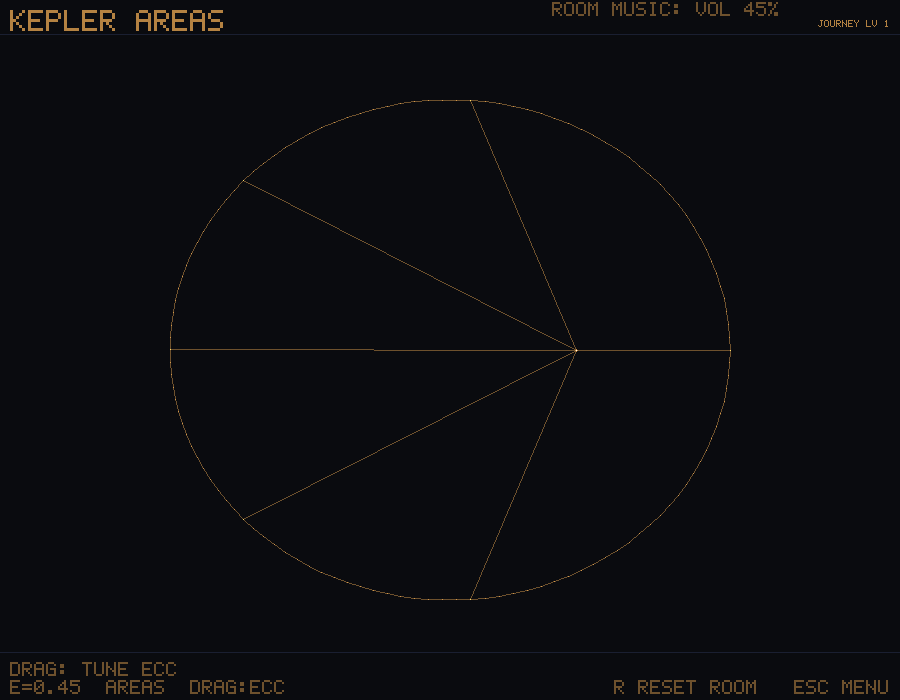
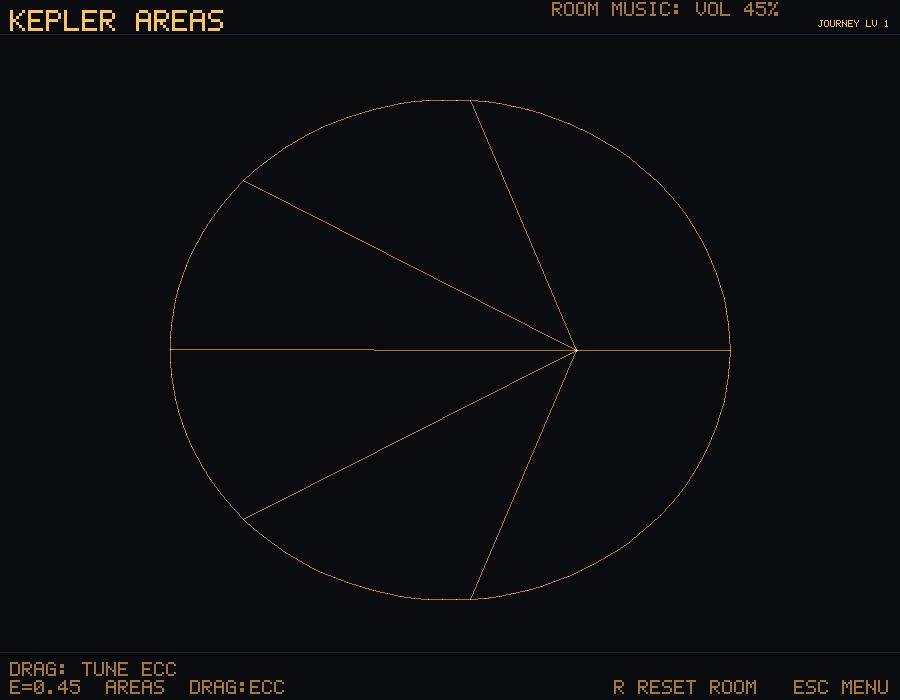
Refine the identity mark and refresh the App plates
Derive native icons from one simple cyan vector and document reproducible
rendering. Put the Cabinet first and give Studio a complete view.

Brighten Kepler's ordinary text to meet the measured stage contrast target
and update its catalog fingerprint and color-independence evidence.

diff --git a/crates/core/src/rooms/catalog.rs b/crates/core/src/rooms/catalog.rs
@@ -3665,7 +3665,7 @@ macro_rules! catalog_rooms {
                 title: "Kepler Areas",
                 wing: "Motion & Dynamics",
                 blurb: "Equal areas in equal times on an ellipse.",
-                accent: [100, 70, 30],
+                accent: [155, 108, 47],
             }
         ),
         (
@@ -4228,10 +4228,10 @@ pub(crate) fn construct_hidden_by_id(id: &str) -> Option<Box<dyn Room>> {
 mod tests {
     use super::*;
 
-    // Alpha 18 corrects the Gray-Scott, Van der Pol, Duffing and Henon-Heiles
-    // blurbs. Only those four fields change from alpha 17; order, ids, titles,
-    // wings and accents stay fixed across all 355 entries.
-    const REVIEWED_ORDERED_METADATA_CHECKSUM: u64 = 0x4875_b8f0_6f48_a89f;
+    // The alpha 18 catalog with Kepler's amber raised for small interface text.
+    // Only that accent changes from alpha 18; order, ids, titles, wings and
+    // blurbs stay fixed across all 355 entries.
+    const REVIEWED_ORDERED_METADATA_CHECKSUM: u64 = 0x7c5e_b72a_88fc_f317;
 
     fn extend_checksum(mut checksum: u64, bytes: &[u8]) -> u64 {
         for byte in (bytes.len() as u64).to_le_bytes().iter().chain(bytes) {

diff --git a/docs/VISUALS.md b/docs/VISUALS.md
@@ -5,14 +5,14 @@ screenshot-worthy.** If you pause at a random instant and it is not beautiful,
 that is a bug. This document owns both the current rendering boundary and the
 target visual system.
 
-**Implementation boundary:** 0.4.0-alpha.18 renders every room
+**Implementation boundary:** 0.4.0-alpha.19 renders every room
 deterministically through CPU `Surface` implementations and presents app frames
 with `softbuffer`. Mandelbrot and Julia alone have targeted `wgpu` paths. Four
 CPU-styled Eras ship: phosphor, 8-bit, vector, and modern. PNG room renders,
 gallery sheets, app postcards, and short-loop APNG bundles ship. HDR, bloom,
 feedback persistence, a universal GPU pipeline, 16-bit and blueprint Eras,
-audio voice swaps, longer video export, and native link reopening are targets,
-not current evidence.
+audio voice swaps, longer video export, and operating-system URL registration
+are targets, not current evidence.
 
 ## Philosophy
 
@@ -68,6 +68,11 @@ naturally. A resolution-aware sample count preserves negative space in ASCII
 without changing the 240-point mathematical circle used by full-size raster
 frames. Its in-scene dial draws explicit ticks and a bright current marker.
 
+The README's deterministic Mandelbrot plate uses the CPU glyph-density image,
+whose filled interior differs from the dark-interior GPU treatment described
+above. That plate establishes the CPU appearance; it is not evidence of GPU
+presentation or display pacing.
+
 The target systemic GPU post-stack has five stages:
 
 1. **Compute pass:** run only measured simulations or fields that benefit from
@@ -78,6 +83,32 @@ The target systemic GPU post-stack has five stages:
    per-face duplication without erasing room meaning.
 5. **Capture tap:** export deterministic stills and, later, bounded loops from a
    defined pre-grade or post-grade surface.
+
+## The identity mark
+
+The current mark is a cyan circle with one open horizontal band. A broad gap
+survives at small sizes; the circle connects it to the rooms while the existing
+cartridge wordmark remains the name. Keep the mark simple, without decorative
+glyphs, hidden letters, or extra orbiting elements.
+
+`assets/logo.svg` is the vector source. Its cyan `#4effff` matches the Cabinet's
+highlight, on the shared `#0a0b0f` stage. Windows, macOS, and Linux use the PNG,
+ICO, and ICNS assets derived from that source. The transparent corners and
+dark backing preserve the silhouette on either light or dark desktops.
+
+Regenerate from the repository root with Node.js installed:
+
+```text
+npm install --prefix .agent/logo-tools --save-exact @resvg/resvg-js@2.6.2
+node scripts/render-logo.mjs
+node scripts/render-logo.mjs --check
+```
+
+The package stays in the ignored working directory. ICO contains separate
+16, 20, 24, 32, 48, 64, 128, and 256 pixel renders; ICNS carries the 256 pixel
+PNG. Check the smallest sizes, monochrome silhouette, and the mark beside
+the cartridge wordmark when changing it. These files do not add a runtime
+renderer or font dependency.
 
 ## Target technique toolbox
 
@@ -136,7 +167,7 @@ HDR modern pass, and per-Era audio voices are planned. Era progression must not
 be described as complete until those visual and sonic variants are both built
 and tested.
 
-## Per-wing visual identity (so 354 rooms feel varied but unified)
+## Per-wing visual identity (so 355 rooms feel varied but unified)
 
 The shared pipeline guarantees coherence; these keep the wings distinct:
 - **Emergence:** dense fields and grids, particle clouds, feedback trails. Cellular, alive.
@@ -151,9 +182,11 @@ The shared pipeline guarantees coherence; these keep the wings distinct:
 - **Shipped:** deterministic CPU PNG renders, full catalog galleries and contact
   sheets, and app postcards of the live room state.
 - **Separate shipped artifacts:** Studio `.num` files and matching links round
-  trip through the CLI, but do not reopen in the app yet.
+  trip through all three faces. The App opens files and links through launch
+  arguments and file drops, preserving the saved numerical state in a paused
+  preview. Shared bundles also carry the postcard and melody MIDI.
 - **Planned:** HDR still capture after that pipeline exists, longer video
-  export, and native application reopening for files and links.
+  export, and operating-system registration of the native URL scheme.
 
 ## Open questions
 1. Bloom approach: physically-based HDR bloom vs. a cheaper stylized glow, per performance budget on integrated GPUs.

diff --git a/docs/DESIGN.md b/docs/DESIGN.md
@@ -2,12 +2,14 @@
 
 How Numinous feels, moment to moment, and the rules that keep it feeling that way.
 
-**Implementation boundary, 2026-07-13:** this is the experience specification,
-not a claim that every element below ships in 0.4.0-alpha.18. The native app,
+**Implementation boundary, 2026-09-05:** this is the experience specification,
+not a claim that every element below ships in 0.4.0-alpha.19. The native app,
 CLI, MCP face, catalog, Show, deterministic room voices, four Visual Eras,
-Studio expression surface, and PNG postcard export are built. The full theme
-system, loop export, native deep-link reopening, creator platform, and complete
-audio architecture remain roadmap work. `ROADMAP.md` is the status authority.
+Studio expression surface, PNG postcards, short APNG loops, exact file/link
+reopening through App arguments and drops, and the local Gallery are built.
+The full theme system, longer video export, operating-system URL registration,
+community creator platform, and complete audio architecture remain roadmap
+work. `ROADMAP.md` is the status authority.
 
 ## The design pillars (and how to obey them)
 
@@ -128,9 +130,11 @@ The creator tier, and the thing that makes Numinous a tool people *live in*, not
 - **Live-code sight and sound at once.** You write terse **patterns** (see `MUSIC.md`, Engine A3) that drive geometry and audio from the *same* expression. Change a number, the visual and the music both shift, instantly, no recompile. The feedback loop is sub-second, which is what makes it feel like an instrument and not an IDE.
 - **A ladder, not a cliff.** The surface is a friendly expression box ("type `sin(x)` and watch it sing") that a curious newcomer can enjoy in ten seconds. Underneath, it goes as deep as raw WGSL shaders and full pattern algebra for people who want it. Same tool, radically different ceilings.
 - **Everything should become shareable and reproducible.** A current Studio
-  expression can be saved as a bounded `.num` file and matching link, then
-  reopened through the CLI. Exact app reopening, loop export, remix, and
-  promotion into community rooms are later creator milestones.
+  graph or paired path can be saved as a bounded `.num` file and matching link,
+  then reopened exactly through all three faces. The App opens a paused preview
+  and can share a postcard and MIDI; Gallery and fork operations retain remix
+  lineage. Longer video export and promotion into community rooms remain later
+  creator milestones.
 - **The point of it all:** this is where "math is fun, non-ironically, seriously" stops being a slogan and becomes something a person *did with their own hands*. Consuming beauty is good; making it is the conversion that sticks.
 
 The current Studio foundation is the bounded expression engine used by the app,

diff --git a/README.md b/README.md
@@ -1,4 +1,4 @@
-# Numinous
+# <img src="assets/logo.png" width="40" height="40" alt=""> Numinous
 
 [![CI](https://github.com/blisspixel/numinous/actions/workflows/ci.yml/badge.svg)](https://github.com/blisspixel/numinous/actions/workflows/ci.yml)
 [![License: Apache-2.0](https://img.shields.io/badge/license-Apache--2.0-blue.svg)](LICENSE)
@@ -52,16 +52,22 @@ manual is [`docs/PLAYING.md`](docs/PLAYING.md).
 These frames are the current App, composed through the same HUD and Cabinet
 the live window uses.
 
+![Cabinet](assets/screens/menu.png)
+
+**Cabinet.** Choose a way in.
+
 | | |
 |---|---|
-| ![Times Tables](assets/screens/times-tables.png) | ![Cabinet](assets/screens/menu.png) |
-| **Times Tables.** Turn the dial. | **Cabinet.** Choose a way in. |
-| ![Mandelbrot](assets/screens/mandelbrot.png) | ![Golden Angle](assets/screens/golden-angle.png) |
-| **Mandelbrot.** Dive the set. | **Golden Angle.** Pack a sunflower. |
-| ![Double Pendulum](assets/screens/double-pendulum.png) | ![Formula Jam](assets/screens/studio.png) |
-| **Double Pendulum.** Fling the arms. | **Formula Jam.** Type math, hear it. |
+| ![Times Tables](assets/screens/times-tables.png) | ![Mandelbrot](assets/screens/mandelbrot.png) |
+| **Times Tables.** Turn the dial. | **Mandelbrot.** Dive the set. |
+| ![Golden Angle](assets/screens/golden-angle.png) | ![Double Pendulum](assets/screens/double-pendulum.png) |
+| **Golden Angle.** Pack a sunflower. | **Double Pendulum.** Fling the arms. |
 | ![Kepler Areas](assets/screens/kepler-laws.png) | ![Lissajous](assets/screens/lissajous.png) |
 | **Kepler Areas.** Equal times, equal areas. | **Lissajous.** Tune a relationship. |
+
+![Formula Jam](assets/screens/studio.png)
+
+**Formula Jam.** Make a relationship of your own, then share it.
 
 ## What you get
 
@@ -87,11 +93,13 @@ Design notes: [`docs/DESIGN.md`](docs/DESIGN.md),
 Make something you can keep: the optional
 [Returning home experiments](docs/experiments/returning-home.md) offer three
 Studio paths to investigate and remix. The mathematical review and its limits
-live in [`docs/MATHEMATICS.md`](docs/MATHEMATICS.md).
+live in [`docs/MATHEMATICS.md`](docs/MATHEMATICS.md). The
+[Shape and scale experiment](docs/experiments/shape-and-scale.md) starts with
+a circle you can stretch, name, and give someone else.
 
 ## Status
 
-**0.4.0-alpha.18** is playable: 355 catalog rooms, games, Journey, Studio,
+**0.4.0-alpha.19** is playable: 355 catalog rooms, games, Journey, Studio,
 controllers, and Watch Agent. The **0.2** Flagship Proof and **0.3** Tactile
 Alpha agent-and-machine exits are met and CI-locked. **0.4 Understanding Alpha
 is active, not complete.**
